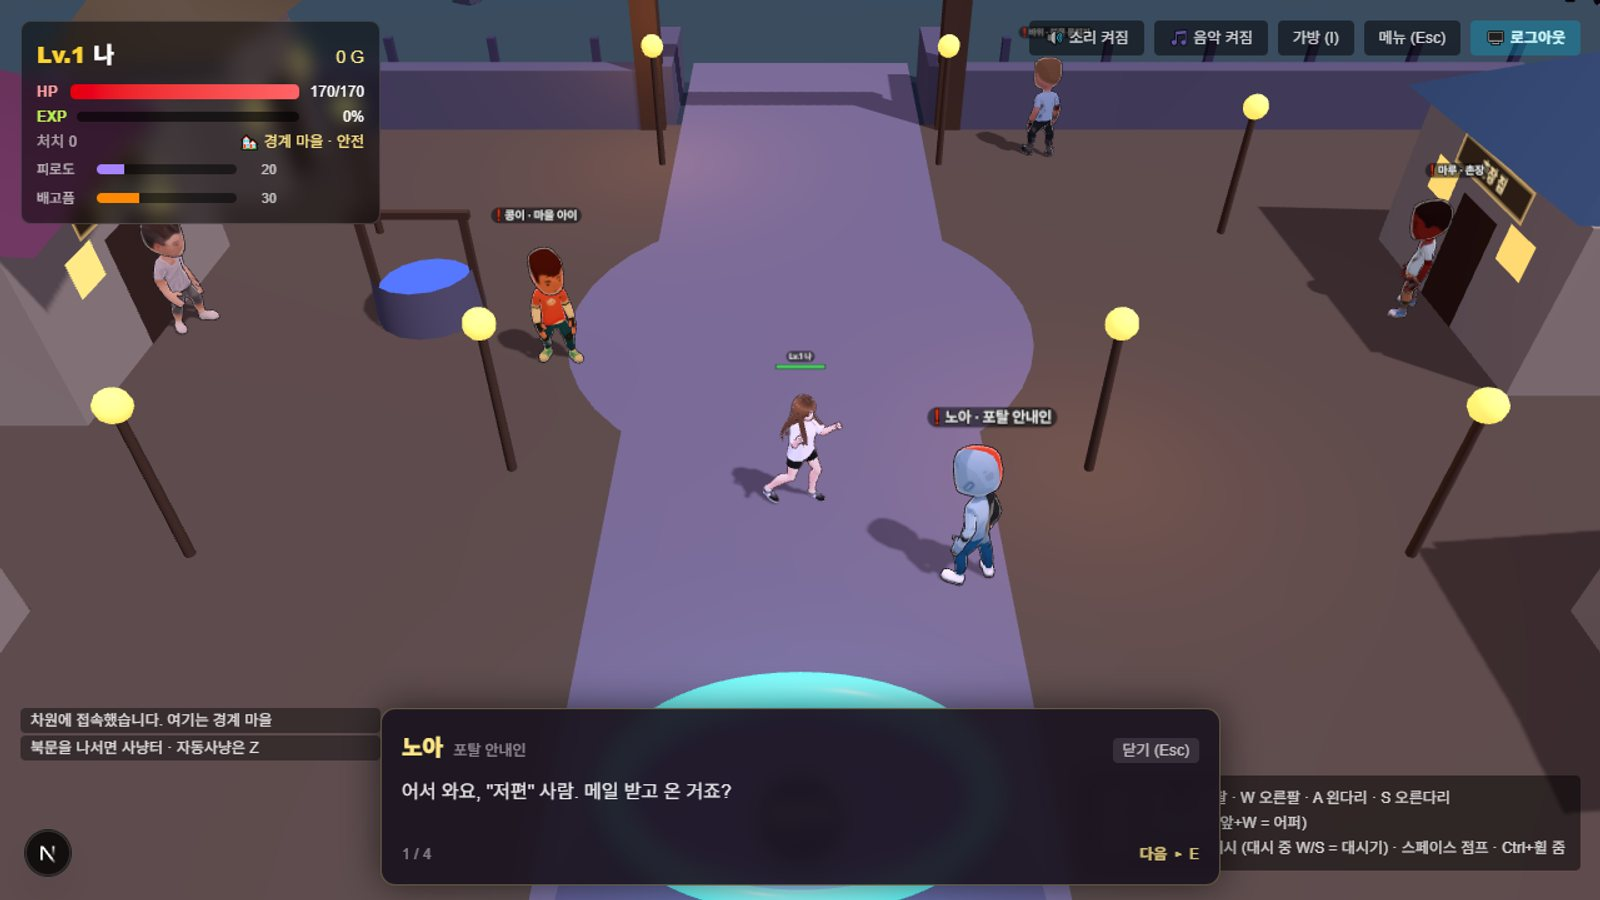
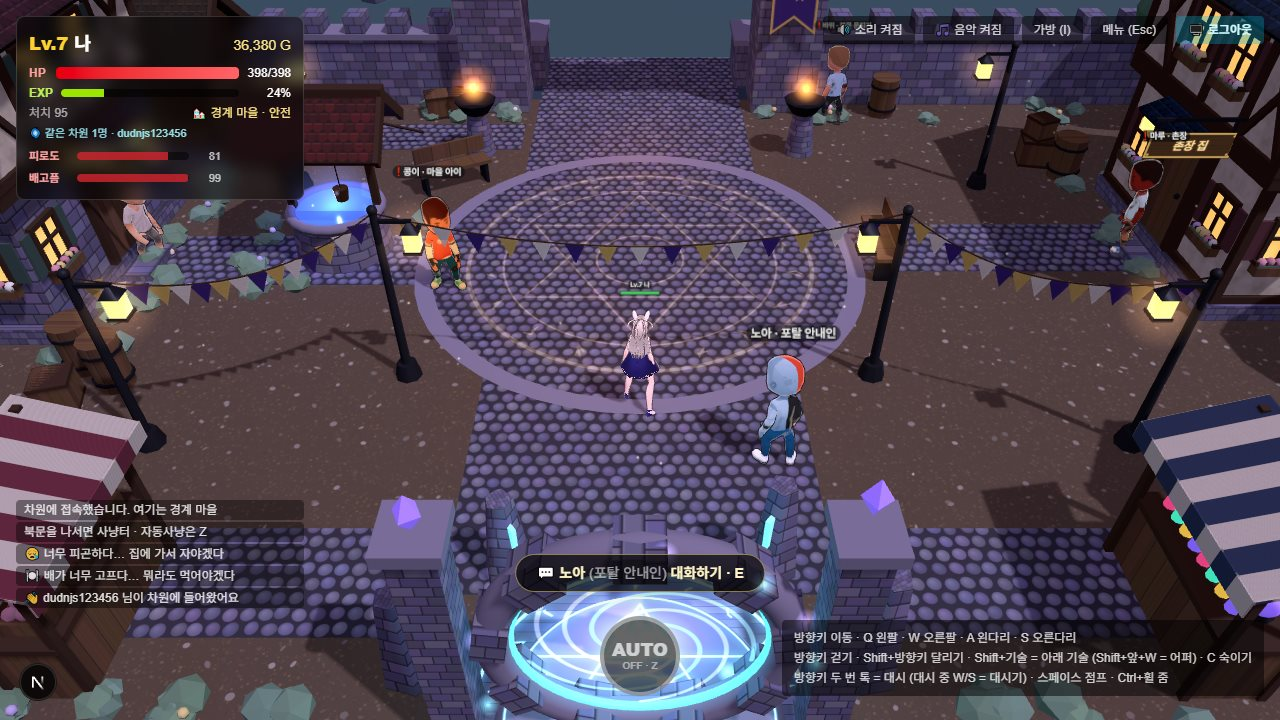
docs: IRON FIST 경계 마을을 판타지 RPG 마을로 바꾼 내용과 새 화면 반영

diff --git a/src/App.js b/src/App.js
@@ -317,7 +317,7 @@ useEffect(() => {
         { type: 'image_text', title: '4. 실제 화면: 1:1 대전', image: '/ironfist-versus.jpg', imageClassName: 'eywa-screen-image', content: 'VRM 3D 캐릭터에 모션 캡처 애니메이션을 섞어 움직임을 표현했습니다. 캐릭터는 코디 창에서 고를 수 있고, 기본 남자·여자 모델 외에 VRoid Studio로 직접 만든 캐릭터도 넣었습니다. 코디 창에서는 옷 색만 바꾸는 데서 나아가 옷 자체를 갈아입을 수 있습니다. 다른 캐릭터의 옷을 떼어 몸매가 다른 기본 몸에 자동으로 맞추는 변환 도구를 만들어(뼈 위치 차이 보정, 원래 몸과의 간격을 새 몸에 재현, 몸이 뚫고 나온 곳 밀어내기), 옷만 담긴 0.4~0.8MB 파일을 게임에서 캐릭터 뼈대에 다시 묶어 입히고 치마 흔들림까지 옮겼습니다. 이 도구로 여러 캐릭터의 티셔츠·반바지·와이드 반바지·롱 원피스를 뽑아, 상의·하의를 따로 바꿔 입고(긴바지는 몸에 붙는 스키니로 칠하고, 하이힐 발에 맞지 않는 납작한 신발 대신 원래 구두에 색을 입힘) 코디 색과 줄무늬·체크 무늬를 진짜 옷 그림에 입히도록 했습니다. 소매·바짓가랑이가 팔다리를 따라가는 설정까지 함께 옮겨, 팔을 내리거나 걸어도 옷이 자연스럽게 움직입니다. 화면 아래에는 방금 맞힌 기술의 판정과 데미지가 표시되고, 경기가 끝나면 준 데미지·맞힌 횟수·카운터·최대 콤보 같은 경기 통계를 보여 줍니다. 연습 모드에서는 추천 콤보를 캐릭터가 직접 시연하고, 방금 누른 방향·버튼과 프레임 수를 입력 기록으로 보여 주며, 내 동작을 5초 녹화하면 허수아비가 그대로 반복해 막기·반격을 연습할 수 있습니다. VS CPU에서 이기면 난이도별 점수가 쌓여 입문부터 철권왕까지 7단계 랭크가 오르고, 전적과 함께 계정에 저장됩니다.' },
         { type: 'image_text', title: '5. 실제 화면: 집 컴퓨터와 유행하는 게임', image: '/ironfist-dimension-game.png', imageClassName: 'eywa-screen-image', content: '서울 내 집 책상의 컴퓨터를 켜면 처음에는 실시간 인기 게임 1위 DIMENSION의 소개가 뜹니다. "켜는 순간 진짜 그 세계에 들어간 것 같다"는 후기와 "제작사가 검색해도 안 나온다"는 수상한 글이 함께 보입니다. 설치하고 실행하면 모니터 화면이 점점 다가오며 하얗게 번쩍이고, 그대로 화면 속 세계로 빨려 들어갑니다. 다음부터는 접속 기록과 함께 바로 실행 화면이 뜨고, 친구 집 컴퓨터나 근무 중에는 켤 수 없습니다.' },
         { type: 'image_text', title: '5-1. 실제 화면: 프롤로그, 안개 숲의 벼랑', image: '/ironfist-prologue-cliff.png', imageClassName: 'eywa-screen-image', content: '처음 접속하면 한 번만 보는 이야기입니다. 하늘에서 보랏빛 안개 숲에 떨어져 정신을 차리고 길을 따라 걷다 보면, 등 뒤 안개 속에서 이름도 보이지 않는 그림자가 나타납니다. 주먹이 전혀 통하지 않는 상대라 Shift로 달려 도망쳐야 하고, 걸으면 따라잡혀 맞습니다. 막다른 벼랑에 몰리면 아래로 경계 마을의 불빛이 보이고, 뛰어내릴지 맞서 싸울지 고릅니다. 맞서면 몇 대 쳐 봐도 꿈쩍도 하지 않아 다시 몰립니다. 뛰어내리면 화면이 어두워지고, 여관 앞에서 눈을 뜨면 벼랑 밑에서 나를 업어 온 여관 주인 달래가 이 세계 이야기를 들려줍니다. 대사창에는 늘 말하는 사람의 초상화가 함께 나오고, 그린 그림이 없는 캐릭터는 3D 모델의 얼굴을 그 자리에서 찍어 보여 줍니다. 혼자 보는 장면이라 다른 사람과 공유하지 않으며, 진행 단계마다 자동 테스트로 확인합니다.' },
-        { type: 'image_text', title: '5-2. 실제 화면: 경계 마을', image: '/ironfist-village.jpg', imageClassName: 'eywa-screen-image', content: '차원에 접속하면 경계 마을의 포탈 앞에 도착합니다. 마을에는 포탈 안내인 노아, 촌장 마루, 북문 문지기 바위, 여관 주인 달래, 마을 아이 콩이가 있고, 가까이 가서 E 키(터치 화면은 버튼)를 누르면 대화창이 열립니다. 아직 인사하지 않은 NPC는 이름표에 ❗ 표시가 붙고, 처음 만나면 이 세계와 차원 틈에 대한 긴 이야기를, 다음부터는 짧은 한마디를 들려줍니다. 만난 기록은 계정에 저장되고, 여관 주인과 대화를 마치면 HP가 가득 찹니다. 마을은 돌담과 북문으로 사냥터와 이어져 있으며 몬스터는 담장 안으로 들어오지 못하고 마을 안 사람을 쫓지 않습니다. 자동 사냥을 켜면 북문으로 나가 사냥을 시작하고, 쓰러지면 마을 포탈 앞에서 다시 깨어납니다.' },
+        { type: 'image_text', title: '5-2. 실제 화면: 경계 마을', image: '/ironfist-village.jpg', imageClassName: 'eywa-screen-image', content: '차원에 접속하면 경계 마을의 포탈 앞에 도착합니다. 마을은 서울과 다른 판타지 RPG 마을로 꾸몄습니다. 반목조 집과 비늘 기와 지붕, 성벽 망루와 성문 탑, 자갈길과 룬이 새겨진 광장, 시장 노점, 선돌로 둘러싼 포탈이 있고, 모두 코드로 만든 도형과 그림을 재질별로 합쳐 그립니다. 캐릭터가 높은 건물 뒤로 가면 그 건물이 반투명해집니다. 마을에는 포탈 안내인 노아, 촌장 마루, 북문 문지기 바위, 여관 주인 달래, 마을 아이 콩이가 있고, 가까이 가서 E 키(터치 화면은 버튼)를 누르면 대화창이 열립니다. 아직 인사하지 않은 NPC는 이름표에 ❗ 표시가 붙고, 처음 만나면 이 세계와 차원 틈에 대한 긴 이야기를, 다음부터는 짧은 한마디를 들려줍니다. 만난 기록은 계정에 저장되고, 여관 주인과 대화를 마치면 HP가 가득 찹니다. 마을은 돌담과 북문으로 사냥터와 이어져 있으며 몬스터는 담장 안으로 들어오지 못하고 마을 안 사람을 쫓지 않습니다. 자동 사냥을 켜면 북문으로 나가 사냥을 시작하고, 쓰러지면 마을 포탈 앞에서 다시 깨어납니다.' },
         { type: 'image_text', title: '5-3. 실제 화면: 다른 차원 사냥터', image: '/ironfist-field.jpg', imageClassName: 'eywa-screen-image', content: '경계 마을 북문 밖, 보랏빛 하늘 아래 차원 수정이 서 있는 사냥터입니다. 자동 사냥 AI가 레벨에 맞는 몬스터를 찾아 싸우고, Z 키로 언제든 직접 조작으로 바꿀 수 있습니다. 같은 차원에 들어온 사람들은 Supabase Realtime 채널로 묶여 같은 몬스터를 봅니다. 가장 먼저 들어온 사람이 몬스터를 움직여 초당 10번 장면을 보내고, 다른 사람이 몬스터를 때린 타격은 그 사람에게 보내 같은 계산으로 체력을 깎습니다. 몬스터는 가장 가까운 사람을 노리고, 처치하면 때린 사람 모두에게 보상이 갑니다. 계산하던 사람이 나가거나 창을 내려 소식이 끊기면 다음 사람이 받은 장면에서 이어서 계산합니다. 화면 오른쪽 위의 로그아웃을 누르면 서울 집 컴퓨터 앞으로 돌아옵니다.' },
         { type: 'image_text', title: '6. 실제 화면: 서울 생활 모드', image: '/ironfist-city.jpg', imageClassName: 'eywa-screen-image', content: '한강이 보이는 동네를 걸으며 횡단보도로 길을 건너고, 내 집이 있는 행복빌라에 들어갈 수 있습니다. 집은 대리석 기반의 차분한 방으로 꾸몄습니다. 대리석 타일과 벽 재질은 사진 대신 코드로 직접 생성해(반복해도 이어지는 노이즈로 큰 결과 가는 실금, 타일마다 다른 결), 책상·협탁·주방 상판까지 같은 대리석으로 맞추고 침구·커튼·러그는 웜그레이·아이보리 톤으로 통일했습니다. 집은 실제 1.5룸 빌라처럼 현관 옆 부엌(식탁·세탁기), 칸막이로 나눈 침실(옷장·협탁), 벽에 붙인 TV가 있는 거실, 화장실로 나눴고, 위에서 내려다보는 카메라에 방 안이 가려지지 않도록 칸막이는 허리 높이까지만 보이게 하고 1인칭 시점에서만 천장까지 보이게 했습니다. 아파트 경비 아르바이트, 낚시, 옷 가게, 펫 돌보기, 게임 달력 등 생활 콘텐츠를 계속 늘려 가고 있습니다. 옷 가게에서 산 모자·안경·가방·토끼 머리띠·토끼 꼬리 같은 코디 소품은 캐릭터마다 머리와 몸 크기를 재서 맞춰 붙입니다. 옷에는 요즘 유행하는 원단(꽈배기 니트·스웨이드·워싱 데님·트위드·가죽)을 Adobe Firefly로 만들어 이음매 없는 타일로 다듬은 뒤, 사진의 결만 옷 색에 곱해 캐릭터 화풍은 지키면서 질감을 더했습니다. 펫샵 건물 2층에는 계단으로 올라가는 코인노래방이 있습니다. 날씨는 맑음·흐림·비·뇌우·눈·안개 6가지로, 달마다 잘 나오는 날씨가 다르고 게임 속 4시간마다 서서히 바뀝니다. 동네는 툰 재질 대신 실사 재질(PBR)과 실제 하늘을 360°로 찍은 사진(HDRI)으로 빛과 반사를 받고, 한강에는 잔물결이 흐릅니다. 눈이 오면 바닥이 군데군데 하얗게 쌓였다가 그치면 천천히 녹고, 비가 오면 바닥이 젖어 짙어지며 물웅덩이에 하늘이 비칩니다. 밤에는 푸른 달빛에 캐릭터가 묻히지 않도록 캐릭터에만 비추는 보정광을 셰이더에 넣었습니다. 침대에서 잠들면 몇십 초마다 바로 누웠다가 왼쪽·오른쪽으로 천천히 돌아눕고, 느리게 숨 쉬며 가끔 잠꼬대하듯 웃습니다. 뒤척이는 때와 방향은 서버 시각과 아이디로 정해서 친구 화면에도 똑같이 보입니다.' },
         { type: 'image_text', title: '7. 실제 화면: 코인노래방', image: '/ironfist-karaoke.jpg', imageClassName: 'eywa-screen-image', content: '펫샵 건물 계단 문으로 들어가 계단을 직접 걸어 2층 코인노래방(3층은 빈 층)으로 올라갑니다. 층별 가게는 데이터 한 줄로 늘릴 수 있게 만들었습니다. 카운터 사장님에게 빈방을 확인받고 1·3·5·10곡 중 골라 결제하면 그 방 문만 열리고, 친구가 빌린 방은 사용 중으로 보이며, 나갈 때 안 부른 곡 값은 돌려받습니다. 방 안에서는 서서·신나게·춤추며·앉아서 부르기와 탬버린·박수 동작을 할 수 있고, 마이크를 든 모습과 방 번호가 친구 화면에도 똑같이 보입니다. 방의 노래방 기계에서 노래를 검색하면 유튜브에서 노래방 반주 영상을 찾아 틀어 주고, 예약 목록과 곡이 끝난 뒤 점수도 보여 줍니다. 다른 사이트에서 재생이 막힌 영상은 브라우저에서 소리 없이 미리 틀어 보고 걸러 내며, 막힌 영상을 고르면 같은 노래의 다른 반주로 자동으로 바꿔 틉니다.' },
